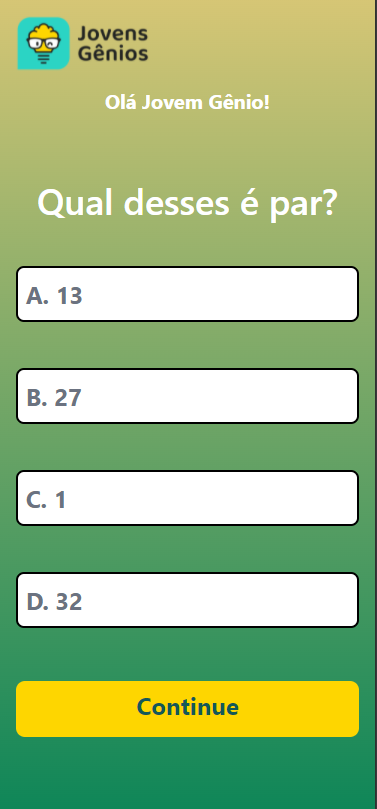
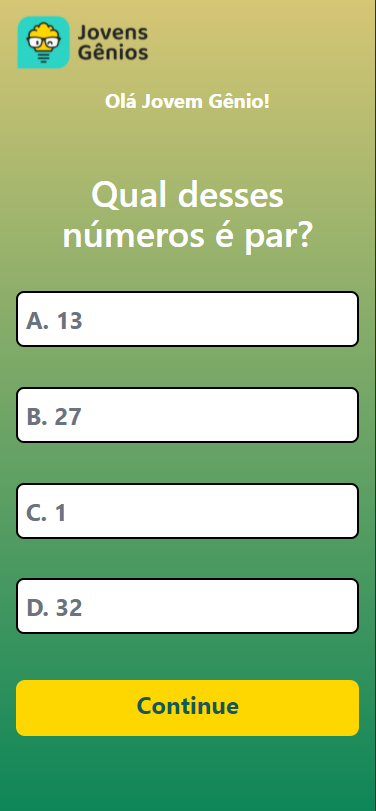
replace some images from readme

diff --git a/src/store/index.ts b/src/store/index.ts
@@ -5,12 +5,12 @@ export default createStore({
     studentName: 'Jovem Gênio',
     questions: [
       {
-        question: 'Qual desses é par?',
+        question: 'Qual desses números é par?',
         answers: [
           { option: 'A. 13', value: 'a', checked: false },
           { option: 'B. 27', value: 'b', checked: false },
           { option: 'C. 1', value: 'c', checked: false },
-          { option: 'D. 32', value: 'd', checked: true },
+          { option: 'D. 32', value: 'd', checked: false },
         ],
       },
     ],

diff --git a/src/components/Question/question.vue b/src/components/Question/question.vue
@@ -1,6 +1,6 @@
 <template>
   <div class="flex items-center justify-evenly h-4/5 flex-col max-w-xl w-full">
-    <h2 class="text-white text-4xl font-medium max-w-xl">
+    <h2 class="text-white text-4xl font-medium max-w-xl text-center">
       {{ title }}
     </h2>
     <div
